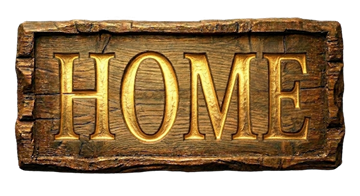
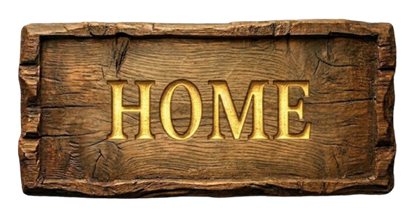
f

diff --git a/hiking.html b/hiking.html
@@ -58,7 +58,7 @@
 
 	.wood-btn { height: 89px; }          /* was 80px — mobile */
 
-@media (min-width: 768px)  { .wood-btn { height: 74px; } }   /* was 64px — desktop */
+@media (min-width: 768px)  { .wood-btn { height: 64px; } }   /* was 64px — desktop */
 @media (min-width: 1536px) { .wood-btn { height: 112px; } }  /* was 96px — 2xl */
         #mobile-menu { background-image: linear-gradient(rgba(0,0,0,0.9), rgba(0,0,0,0.9)), url('webpic/railroad-tie-texture.jpg'); background-size: cover; }
 